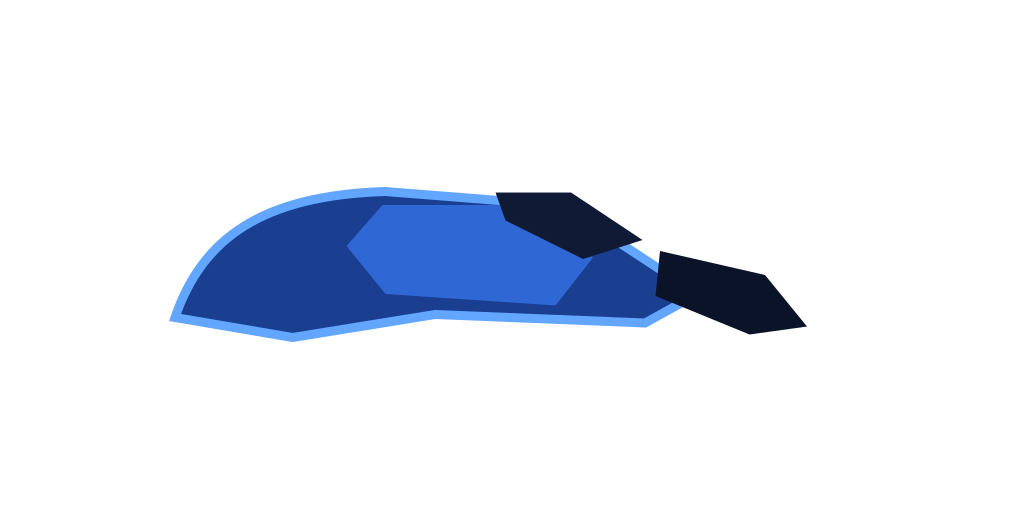
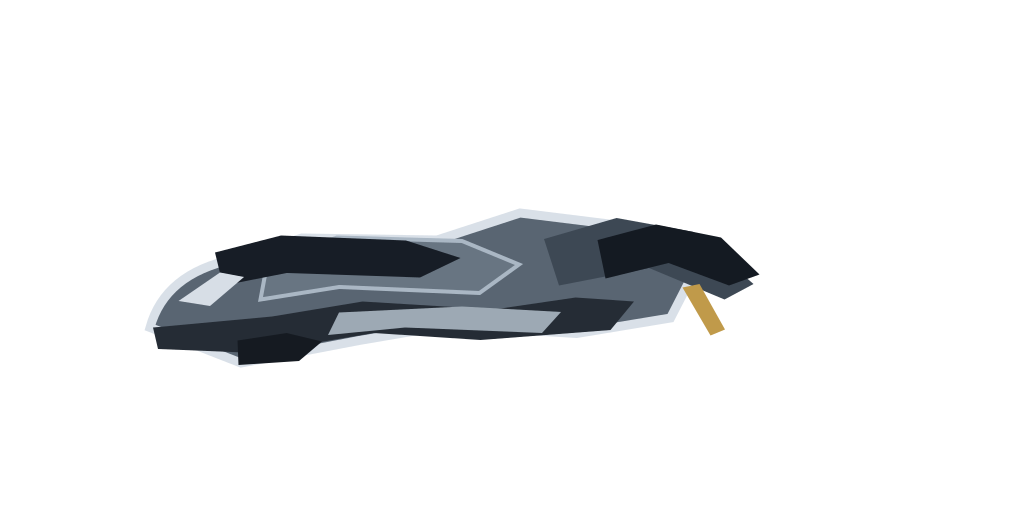
ex

Changed region(s): [[0.125, 0.3438, 0.7812, 0.7188]]

diff --git a/Global/VehicleTwin/PTVehicleTwin3DAsset.swift b/Global/VehicleTwin/PTVehicleTwin3DAsset.swift
@@ -187,6 +187,10 @@ enum PTVehicleTwin3DAssetFactory {
     private static func makeBody(color: UIColor) -> SCNNode {
         let body = SCNNode()
 
+        // EN: Keep the low-poly silhouette recognizably XP400: tall screen, angular fairing, long seat and footboard.
+        // ES: Mantiene la silueta low-poly reconocible como XP400: pantalla alta, carenado angular, asiento largo y plataforma.
+        // 中文：保持低面数模型具备 XP400 的辨识度：高风挡、棱角前脸、长座垫和踏板。
+
         let mainGeometry = SCNBox(width: 1.88, height: 0.50, length: 0.68, chamferRadius: 0.12)
         mainGeometry.firstMaterial = material(color: color)
         let main = SCNNode(geometry: mainGeometry)
@@ -213,6 +217,43 @@ enum PTVehicleTwin3DAssetFactory {
         screen.eulerAngles.z = -0.18
         body.addChildNode(screen)
 
+        let windshieldGeometry = SCNBox(width: 0.42, height: 0.52, length: 0.66, chamferRadius: 0.05)
+        windshieldGeometry.firstMaterial = transparentMaterial(color: UIColor(red: 0.28, green: 0.42, blue: 0.50, alpha: 0.42))
+        let windshield = SCNNode(geometry: windshieldGeometry)
+        windshield.position = SCNVector3(0.67, 1.48, 0)
+        windshield.eulerAngles.z = -0.20
+        body.addChildNode(windshield)
+
+        let footboardGeometry = SCNBox(width: 1.08, height: 0.08, length: 0.86, chamferRadius: 0.03)
+        footboardGeometry.firstMaterial = material(color: UIColor(white: 0.22, alpha: 1))
+        let footboard = SCNNode(geometry: footboardGeometry)
+        footboard.position = SCNVector3(-0.02, 0.62, 0)
+        body.addChildNode(footboard)
+
+        let frontPanelGeometry = SCNBox(width: 0.54, height: 0.44, length: 0.80, chamferRadius: 0.12)
+        frontPanelGeometry.firstMaterial = material(color: color.withAlphaComponent(0.92))
+        let frontPanel = SCNNode(geometry: frontPanelGeometry)
+        frontPanel.position = SCNVector3(0.80, 1.00, 0)
+        frontPanel.eulerAngles.z = -0.14
+        body.addChildNode(frontPanel)
+
+        let forkMaterial = material(color: UIColor(red: 0.72, green: 0.52, blue: 0.18, alpha: 1))
+        for z: Float in [-0.23, 0.23] {
+            let forkGeometry = SCNCylinder(radius: 0.035, height: 0.64)
+            forkGeometry.firstMaterial = forkMaterial
+            let fork = SCNNode(geometry: forkGeometry)
+            fork.position = SCNVector3(0.98, 0.60, z)
+            fork.eulerAngles.z = -0.14
+            body.addChildNode(fork)
+        }
+
+        let exhaustGeometry = SCNCylinder(radius: 0.07, height: 0.58)
+        exhaustGeometry.firstMaterial = material(color: UIColor(white: 0.30, alpha: 1))
+        let exhaust = SCNNode(geometry: exhaustGeometry)
+        exhaust.position = SCNVector3(-0.72, 0.60, 0.38)
+        exhaust.eulerAngles.z = Float.pi / 2
+        body.addChildNode(exhaust)
+
         let handlebarGeometry = SCNCylinder(radius: 0.035, height: 0.86)
         handlebarGeometry.firstMaterial = material(color: UIColor(white: 0.55, alpha: 1))
         let handlebar = SCNNode(geometry: handlebarGeometry)
@@ -238,6 +279,21 @@ enum PTVehicleTwin3DAssetFactory {
         rimGeometry.pipeSegmentCount = 6
         rimGeometry.firstMaterial = material(color: UIColor(white: 0.60, alpha: 1))
         wheel.addChildNode(SCNNode(geometry: rimGeometry))
+
+        // EN: Three crossing bars form an XP400-style cross-spoke wheel and rotate with the wheel pivot.
+        // ES: Tres barras cruzadas forman una rueda de radios cruzados estilo XP400 y giran con el pivote.
+        // 中文：用三根交叉轮辐表现 XP400 风格的交叉辐条，并随车轮枢轴旋转。
+        for angle in stride(from: Float(0), to: Float.pi, by: Float.pi / 3) {
+            let spokeGeometry = SCNCylinder(radius: 0.012, height: 0.52)
+            spokeGeometry.firstMaterial = material(color: UIColor(white: 0.78, alpha: 1))
+            let spoke = SCNNode(geometry: spokeGeometry)
+            spoke.eulerAngles.z = angle
+            wheel.addChildNode(spoke)
+        }
+
+        let hubGeometry = SCNCylinder(radius: 0.07, height: 0.18)
+        hubGeometry.firstMaterial = material(color: UIColor(white: 0.78, alpha: 1))
+        wheel.addChildNode(SCNNode(geometry: hubGeometry))
 
         return wheel
     }
@@ -300,6 +356,13 @@ enum PTVehicleTwin3DAssetFactory {
         if let emission {
             material.emission.contents = emission
         }
+        return material
+    }
+
+    private static func transparentMaterial(color: UIColor) -> SCNMaterial {
+        let material = material(color: color)
+        material.transparency = 0.72
+        material.isDoubleSided = true
         return material
     }
 }

diff --git a/Global/VehicleTwin/PTXP400TwinView.swift b/Global/VehicleTwin/PTXP400TwinView.swift
@@ -32,6 +32,7 @@ final class PTXP400TwinView: UIView {
     private let xp400FrontWheelSpokesImageView = UIImageView()
     private let xp400RearWheelBaseImageView = UIImageView()
     private let xp400RearWheelSpokesImageView = UIImageView()
+    private let xp400WindshieldImageView = UIImageView()
     private let xp400HeadlightImageView = UIImageView()
     private let xp400BrakeLightImageView = UIImageView()
     private let xp400LeftIndicatorImageView = UIImageView()
@@ -136,6 +137,7 @@ final class PTXP400TwinView: UIView {
             xp400RearWheelSpokesImageView,
             xp400FrontWheelBaseImageView,
             xp400FrontWheelSpokesImageView,
+            xp400WindshieldImageView,
             xp400HeadlightImageView,
             xp400BrakeLightImageView,
             xp400LeftIndicatorImageView,
@@ -156,6 +158,7 @@ final class PTXP400TwinView: UIView {
             "front_wheel_spokes": xp400FrontWheelSpokesImageView,
             "rear_wheel_base": xp400RearWheelBaseImageView,
             "rear_wheel_spokes": xp400RearWheelSpokesImageView,
+            "windshield": xp400WindshieldImageView,
             "headlight": xp400HeadlightImageView,
             "brake_light": xp400BrakeLightImageView,
             "indicator_left": xp400LeftIndicatorImageView,
@@ -304,6 +307,7 @@ final class PTXP400TwinView: UIView {
         xp400ShadowImageView.alpha = usesXP400Assets ? CGFloat(opacity * 0.72) : 0
         xp400FrontWheelSpokesImageView.transform = CGAffineTransform(rotationAngle: wheelRotation)
         xp400RearWheelSpokesImageView.transform = CGAffineTransform(rotationAngle: wheelRotation)
+        xp400WindshieldImageView.alpha = CGFloat(opacity * 0.78)
 
         let headlightOn = currentSnapshot.highBeamOn?.value == true || currentSnapshot.lowBeamOn?.value == true
         headlightLayer.opacity = headlightOn ? 1 : 0.22
@@ -332,6 +336,7 @@ final class PTXP400TwinView: UIView {
             xp400BodyImageView,
             xp400RearWheelBaseImageView,
             xp400FrontWheelBaseImageView,
+            xp400WindshieldImageView,
             xp400HeadlightImageView,
             xp400BrakeLightImageView,
             xp400LeftIndicatorImageView,

diff --git a/docs/history/builds/BUILD_076_DIGITAL_TWIN_CLOSEOUT.md b/docs/history/builds/BUILD_076_DIGITAL_TWIN_CLOSEOUT.md
@@ -26,6 +26,10 @@ superseded_by: []
 
 加载 XP400 的 body、shadow、灯光、边撑和轮组素材，不再把 `xp400_gt` 作为当前页面素材来源。3D renderer 使用 XP400 配置和对应的 XP400 低面数材质配色；GT 目录保留为后续已授权素材替换的扩展位，但不参与当前 Build 76 页面。
 
+本次素材细化参考 XP400 官方公开车型的视觉特征：高位烟熏风挡、棱角化前脸、长座垫/低踏板、金色前叉和交叉辐条轮。实现仍采用项目内原创 SVG 与程序化 SceneKit 几何，不打包官方图片、Logo 或商标资源；因此它是接近官方比例与语言的近似模型，而不是官方授权模型。
+
+2D 资源新增独立风挡层，并更新车身、灯组、轮圈和交叉辐条；3D 资源同步加入半透明风挡、前面板、踏板、前叉、排气和交叉辐条，使两种模式在轮廓和材质语言上保持一致。
+
 ### 2. 修复 2D 轮子轨迹
 
 原实现把整个 wheel path 作为一个覆盖全屏的 `CAShapeLayer` 旋转，旋转中心等于视图中心，因此视觉上会出现轮子绕圈或“自转轨迹异常”。现在：
@@ -51,6 +55,8 @@ superseded_by: []
 | 项目 | 状态 |
 | --- | --- |
 | XP400 PNG 资源生成并随 App bundle 复制 | ✅ |
+| XP400 风格 2D 车身、风挡、灯组和交叉辐条细化 | ✅ |
+| XP400 风格 3D 风挡、前脸、前叉、踏板和交叉辐条细化 | ✅ |
 | 2D/3D 当前配置固定为 XP400 | ✅ |
 | 2D wheel pivot 与时间积分修复 | ✅ |
 | Card 子视图点击穿透与显式入口 | ✅ |

diff --git a/docs/planning/ACTIVE_WORK.md b/docs/planning/ACTIVE_WORK.md
@@ -25,7 +25,7 @@ superseded_by:
 
 ## Build 76：XP400 Vehicle Digital Twin 收尾 🟨
 
-代码范围已收口：当前 2D/3D 页面统一选择 XP400 素材/配置；2D wheel 已改为原生 2:1 XP400 canvas、轮环静止、轮辐按真实轮心和时间积分旋转；Digital Twin 卡片增加明确的 Open 按钮并禁止内部 renderer 抢占触摸。干净 DerivedData 的通用 iOS Debug build 与 `build-for-testing` 已通过，三个稳定 BLE/OBD 核心零改动。
+代码范围已收口：当前 2D/3D 页面统一选择 XP400 素材/配置；2D wheel 已改为原生 2:1 XP400 canvas、轮环静止、交叉轮辐按真实轮心和时间积分旋转；原创素材已补齐棱角车身、高位烟熏风挡、灯组、前叉和 XP400 风格交叉辐条，3D 程序化模型同步补齐对应结构；Digital Twin 卡片增加明确的 Open 按钮并禁止内部 renderer 抢占触摸。干净 DerivedData 的通用 iOS Debug build 与 `build-for-testing` 已通过，三个稳定 BLE/OBD 核心零改动。
 
 只剩真实设备门禁：iPhone 点击与滚动冲突、XP400/XP400 GT 实车字段语义、长时间帧率/内存/Energy/thermal 和 Release/TestFlight 包验证。完成这些证据后，再把 Build 76 Final Gate 从 `🟨` 更新为完整通过。
 

diff --git a/docs/history/builds/BUILD_076A_ASSET_IMPORT_GUIDE.md b/docs/history/builds/BUILD_076A_ASSET_IMPORT_GUIDE.md
@@ -27,11 +27,13 @@ superseded_by: []
 - `manifest.json`
 - `xp400/` 与 `xp400_gt/` 两套透明 SVG 分层资源
 - `xp400/` 下用于运行时的 PNG 版本；当前 Build 76 页面只加载 `xp400/`
-- body、body mask、前后轮、头灯、刹车灯、左右转向灯、边撑、阴影和 preview
+- body、body mask、前后轮、交叉辐条、头灯、烟熏风挡、刹车灯、左右转向灯、边撑、阴影和 preview
 
 ## 资产说明
 
 当前资源是为 CrazyDashboard 制作的原创近似矢量轮廓，不是 Peugeot 官方 车型图片，也不声称是照片级精确模型。`manifest.json` 记录画布尺寸、provenance、部件名称、车轮中心、车身 pivot、边撑 pivot 和头灯锚点。若后续获得用户自有照片或授权素材，只需按相同文件名替换 SVG，并复核 anchor/pivot。
+
+本轮细化以 XP400 公开车型的高位风挡、棱角前脸、长座垫、低踏板、前叉金属色和交叉辐条为视觉参考；这些特征由项目内原创 SVG 重绘，不直接复制官方图片或商标。3D 页面对应使用程序化 SceneKit 几何，保持与 2D 素材的轮廓语言一致。
 
 ## 工程使用
 
